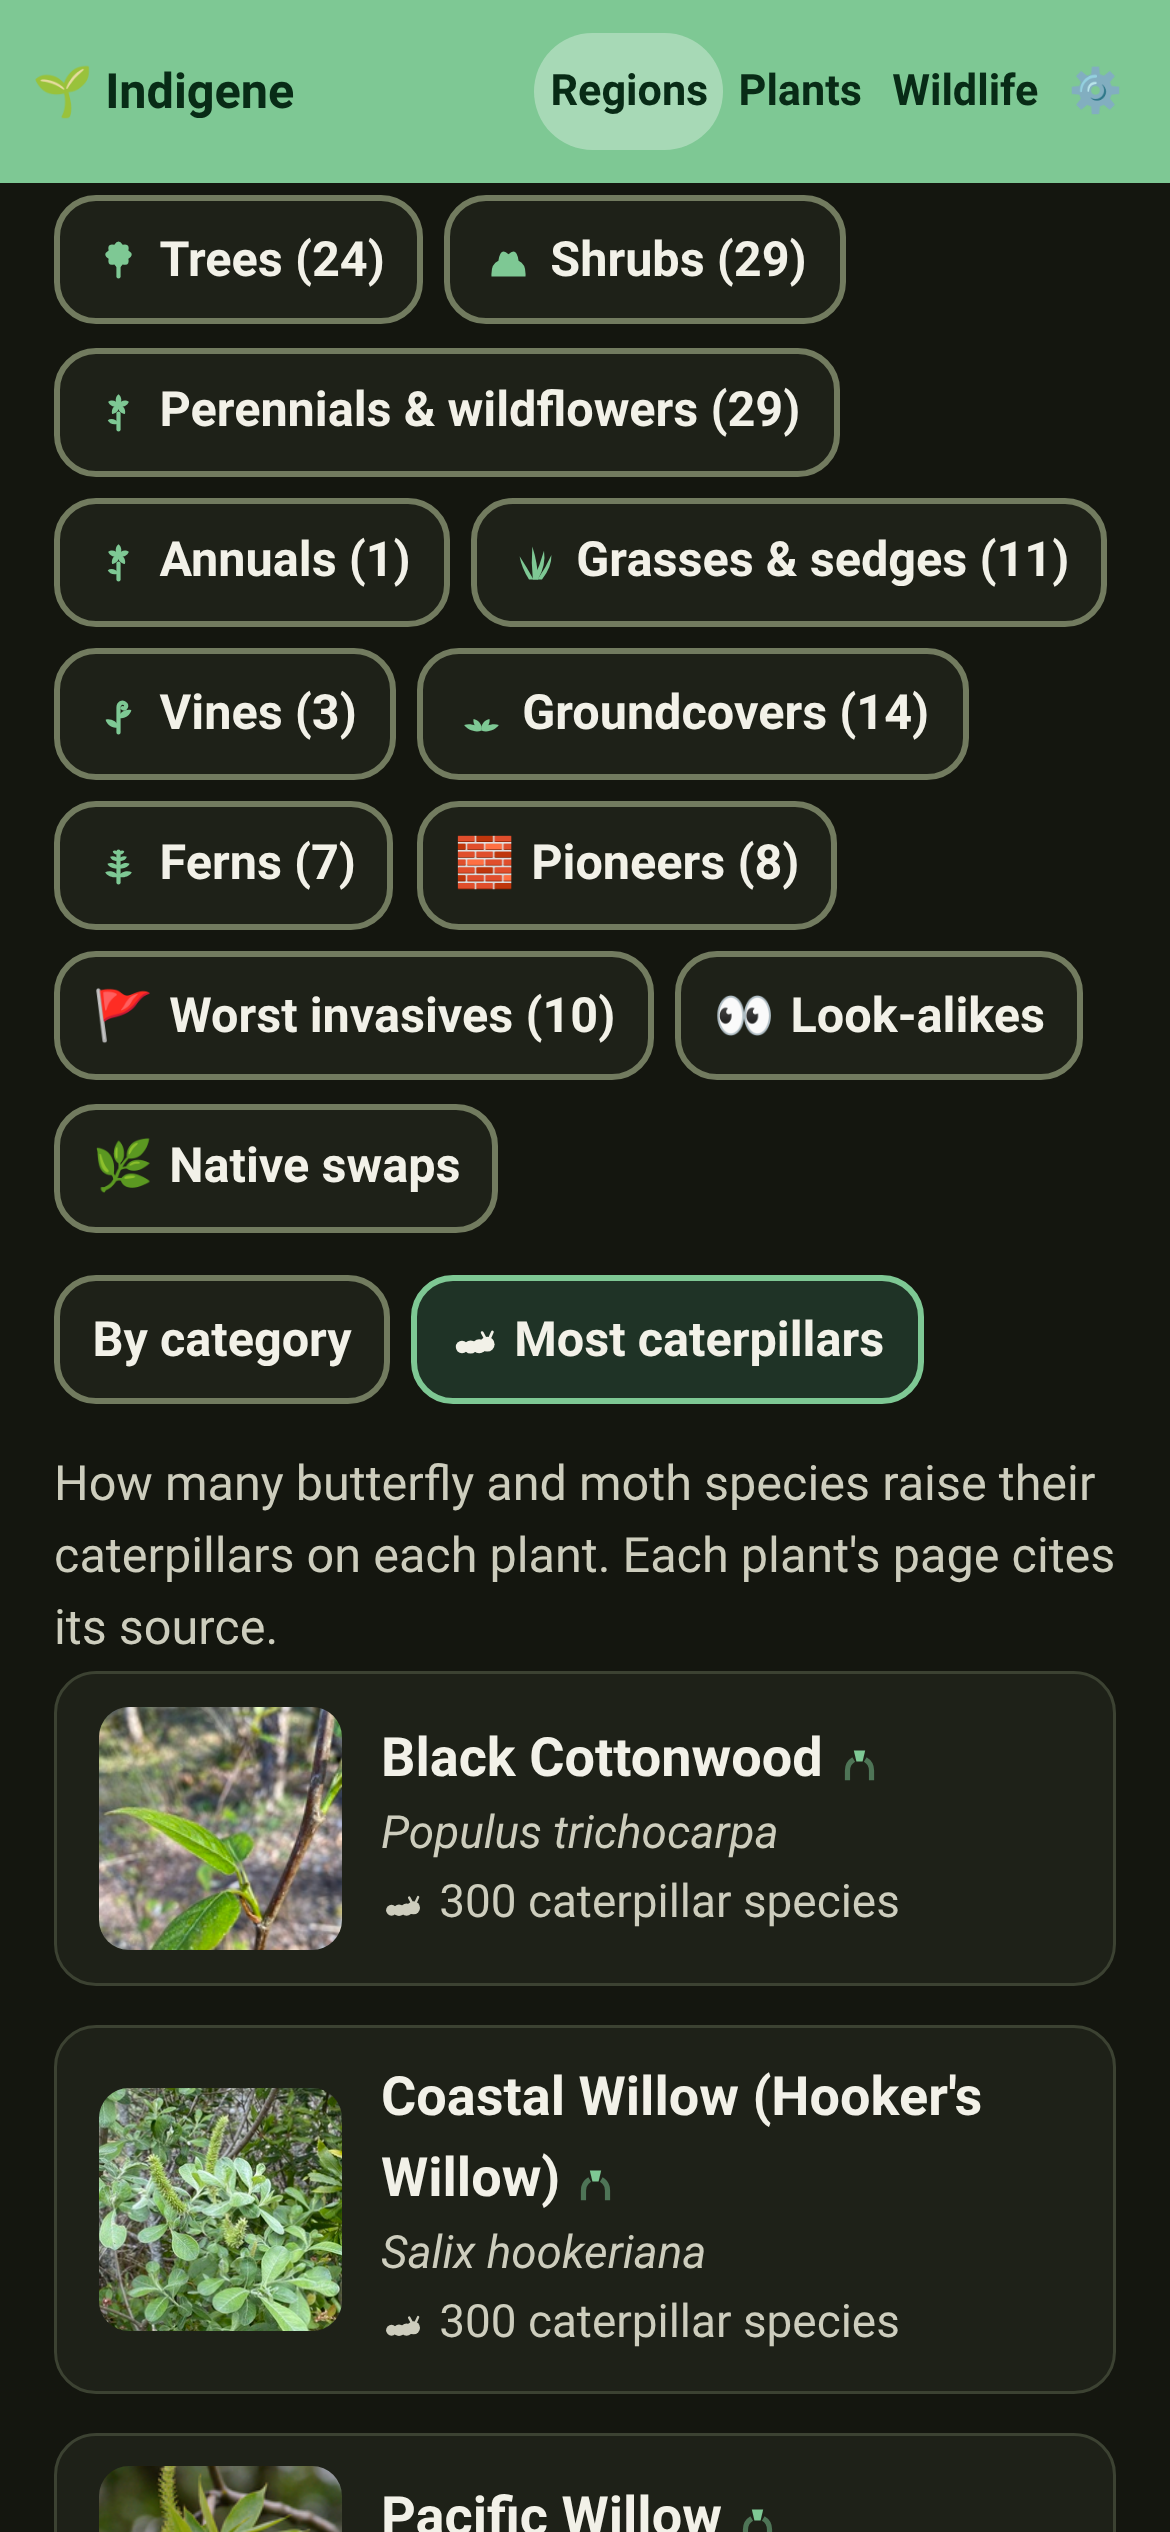
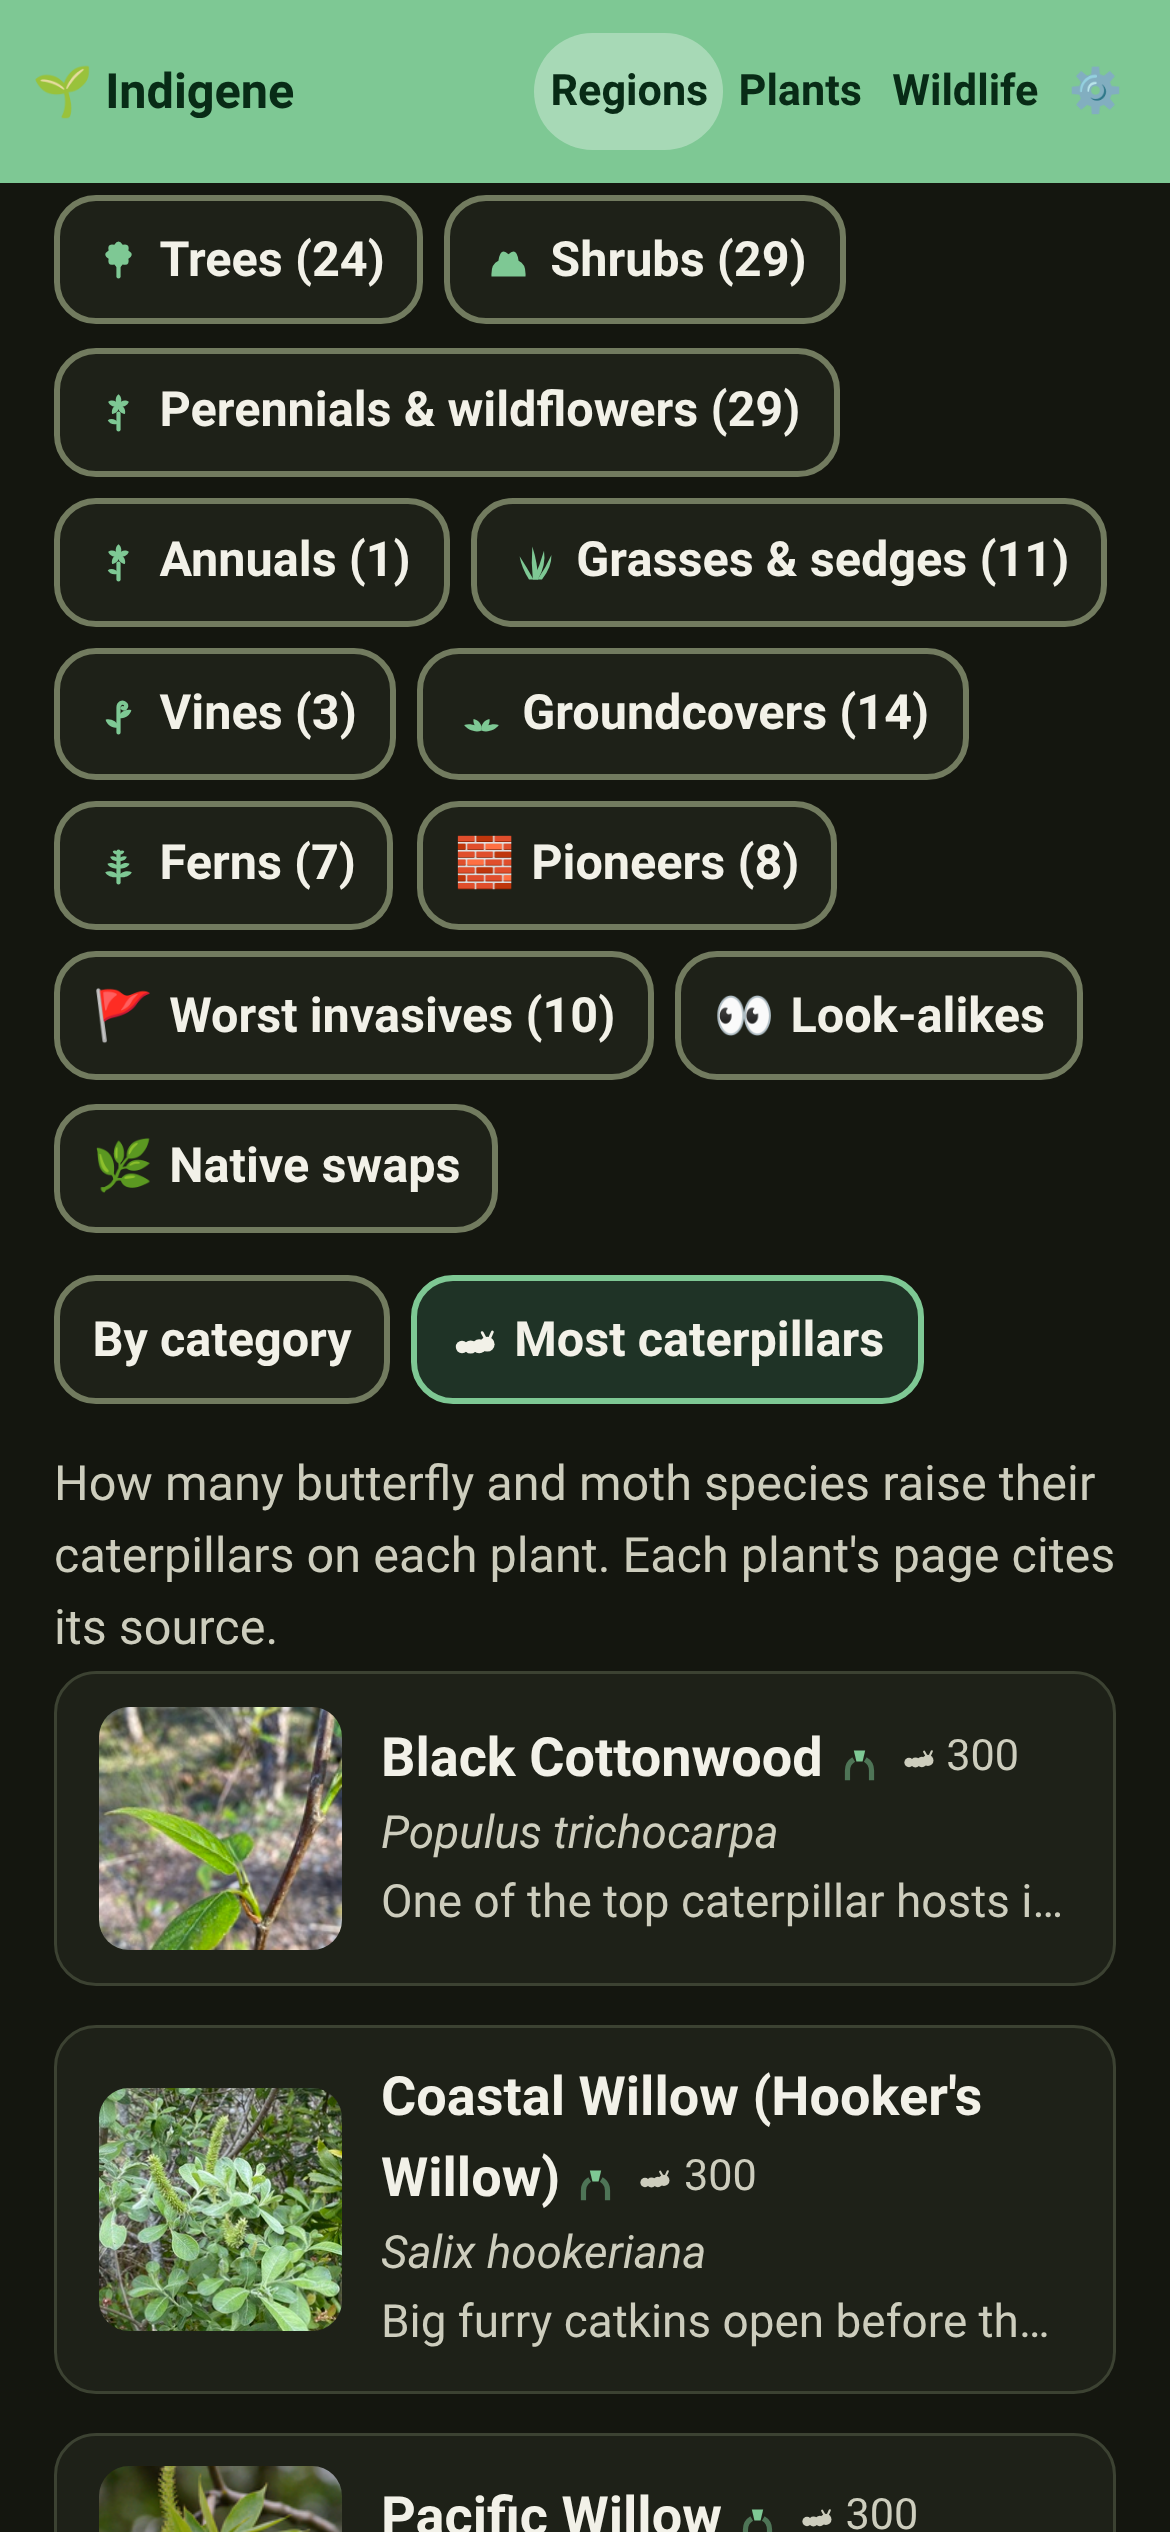
Show the caterpillar count as a quiet glyph and number
In caterpillar order the count now sits beside the name, muted, as an
icon and a number (spelled out for screen readers and on hover). The
row keeps its usual description line.

Claude-Session: https://claude.ai/code/session_01Qxwni3GJEFjMcvFVrHNdTc

diff --git a/app/src/steps/region.ts b/app/src/steps/region.ts
@@ -514,8 +514,8 @@ function plantFilterField(rows: FilterRow[], sections: FilterSection[]): HTMLEle
 // name lines with the filter query underlined, exactly as a search result does
 // — the row says which word kept it on screen.
 interface RowOptions {
-  /** Show the caterpillar count in place of the "what it does" line — the
-   *  figure the list is sorted by, so a scan can see why a plant ranks there. */
+  /** Show the caterpillar count beside the name — the figure the list is
+   *  sorted by, so a scan can see why a plant ranks there. */
   caterpillars?: boolean;
 }
 
@@ -543,18 +543,21 @@ function plantRow(p: Plant, regionId: string, opts: RowOptions = {}): { node: HT
               style: "margin-left:0.3rem;color:var(--brand)",
             }, [keystoneIcon(13)])
           : null,
+        // The figure the list is sorted by, as quiet as the keystone beside it:
+        // a glyph and a number, spelled out for a screen reader and on hover.
+        opts.caterpillars && p.hostLepCount !== null
+          ? el("span", {
+              title: t("explore.caterpillarSpecies", { n: fmtNumber(p.hostLepCount) }),
+              role: "img",
+              "aria-label": t("explore.caterpillarSpecies", { n: fmtNumber(p.hostLepCount) }),
+              style: "margin-left:0.4rem;font-weight:400;font-size:0.8rem;color:var(--ink-soft);white-space:nowrap;display:inline-flex;align-items:center;gap:0.2rem;vertical-align:0.05em",
+            }, [supportIcon("host", 12), fmtNumber(p.hostLepCount)])
+          : null,
       ]),
       sub,
-      opts.caterpillars
-        ? el("div", { style: "font-size:0.85rem;color:var(--ink-soft);display:flex;align-items:center;gap:0.3rem" }, [
-            supportIcon("host", 14),
-            p.hostLepCount === null
-              ? t("stat.host.uncounted")
-              : t("explore.caterpillarSpecies", { n: fmtNumber(p.hostLepCount) }),
-          ])
-        : el("div", {
-            style: "font-size:0.85rem;color:var(--ink-soft);white-space:nowrap;overflow:hidden;text-overflow:ellipsis",
-          }, richText(prose(p, "givesNote", regionId))),
+      el("div", {
+        style: "font-size:0.85rem;color:var(--ink-soft);white-space:nowrap;overflow:hidden;text-overflow:ellipsis",
+      }, richText(prose(p, "givesNote", regionId))),
     ]),
   ]);
   const mark = (nq: string): void => {
